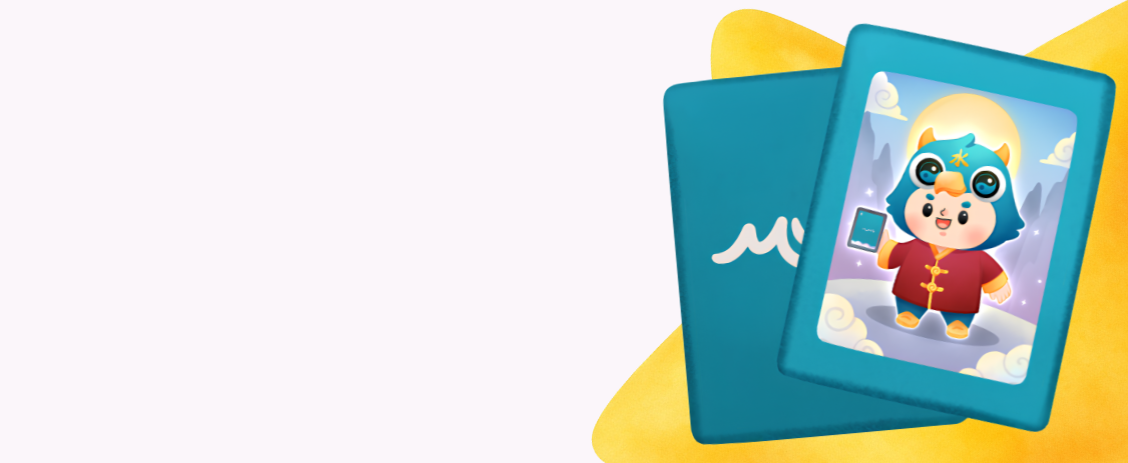
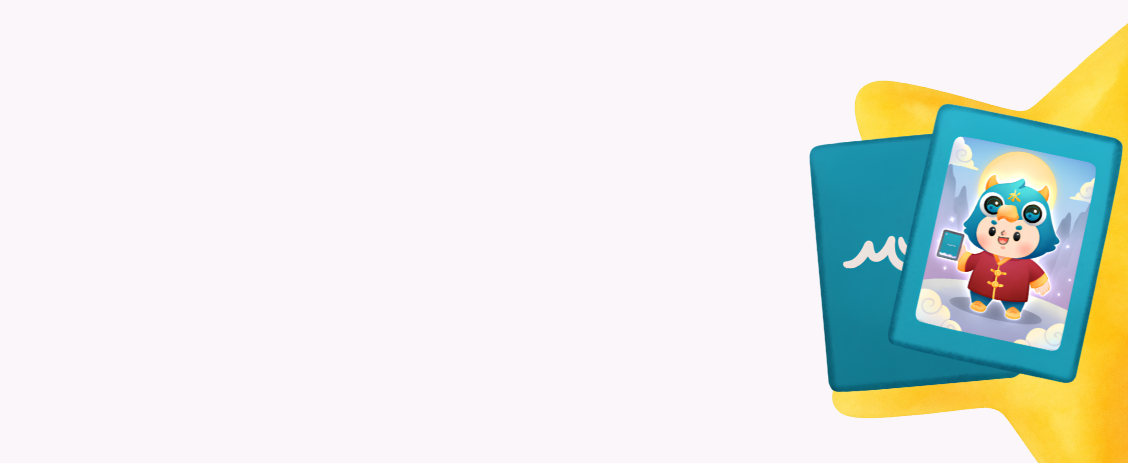
feat(v2-service): อาร์ตการ์ดใหม่ทั้งชุด + การ์ดเบอร์มือถือ + จัดหัวข้อ/คำอธิบายตาม Figma
- เปลี่ยนภาพการ์ดบริการทั้ง 11 ใบเป็นชุดใหม่ (Drive 2026-09-10) — มาสคอตย่อ/พื้นหลังมาในไฟล์
- แก้ 3 ไฟล์ที่อาร์ตสลับกัน (08 มานิเฟส/09 ปฏิทิน/11 ร้านค้า) ให้เนื้อหาตรงชื่อ
- เพิ่มการ์ดใหม่ #12 "ดูดวงเบอร์มือถือ" (12_เบอร์มือถือ.png) → coming-soon
- ServiceCard: คอลัมน์ข้อความ 47%→56%... 68% + ชื่อการ์ด 18→16px ให้ desc พอดี 2 บรรทัดตาม Figma
- AppHeader: เพิ่ม prop titleClassName (ไม่กระทบหน้าอื่น); service ใช้ 24→20 + nowrap ให้ "บริการทั้งหมด" 1 บรรทัด

diff --git a/features/v2-shell/components/AppHeader.tsx b/features/v2-shell/components/AppHeader.tsx
@@ -43,6 +43,9 @@ import { headerBadge, type MembershipLike } from '../header-badge'
 export type AppHeaderProps = {
   /** left: the page title (Heading/H1 24/32 navy — Figma) */
   title?: string
+  /** left: override the title's class list (size/wrap). Default = 24/32 bold navy, break-words. Service
+   *  passes a smaller nowrap variant so "บริการทั้งหมด" stays on one line beside the right cluster. */
+  titleClassName?: string
   /** left: optional second line under the title (Body 14/20 #464646 — Figma) */
   subtitle?: string
   /** left: a custom block that replaces title/subtitle entirely (home's Structure A greeting) */
@@ -166,6 +169,7 @@ export function HeaderTools({ membership, upgradeCta = true, tierLink = true, on
 
 export function AppHeader({
   title,
+  titleClassName = 'break-words text-[24px] font-bold leading-8 text-v3-navy',
   subtitle,
   left,
   backHref,
@@ -186,7 +190,7 @@ export function AppHeader({
       {left ?? (
         // Figma 375:11274 — title 24/32 bold navy, subtitle 14/20 medium #464646, 8px apart.
         <div className="flex min-w-0 flex-1 flex-col gap-2">
-          {title && <h1 data-testid="header-title" className="break-words text-[24px] font-bold leading-8 text-v3-navy">{title}</h1>}
+          {title && <h1 data-testid="header-title" className={titleClassName}>{title}</h1>}
           {subtitle && <p data-testid="header-subtitle" className="text-[14px] font-medium leading-5 text-v3-text-body">{subtitle}</p>}
         </div>
       )}

diff --git a/features/v2-service/components/ServiceCard.tsx b/features/v2-service/components/ServiceCard.tsx
@@ -38,8 +38,10 @@ export function ServiceCard({ data, eagerArt = false }: { data: ServiceCardData;
     >
       <ServiceCardArt src={data.image} eager={eagerArt} />
 
-      <div className="relative z-10 flex w-[47%] flex-col gap-2">
-        <h3 className="text-[18px] font-bold leading-6 text-v3-navy [word-break:break-word]">{data.title}</h3>
+      {/* copy column: กว้าง 56% (เดิม 47%) — อาร์ตชุดใหม่ (Drive 2026-09-10) มาสคอตชิดขว่ากว่าเดิม เว้นซ้าย
+          ~58-70% ว่าง จึงขยายคอลัมน์ข้อความให้ desc 2 บรรทัดพอดีตาม Figma (ก่อนหน้านี้ 47% บีบจนตัดเป็น 3-4 บรรทัด) */}
+      <div className="relative z-10 flex w-[68%] flex-col gap-2 pr-1">
+        <h3 className="text-[16px] font-bold leading-6 text-v3-navy [word-break:break-word]">{data.title}</h3>
         <div className="text-[14px] font-medium leading-5 text-v3-text-body [word-break:break-word]">
           {data.desc.map((line, i) => (
             <p key={i}>{line}</p>

diff --git a/features/v2-service/components/ServiceHeader.tsx b/features/v2-service/components/ServiceHeader.tsx
@@ -19,6 +19,8 @@ export function ServiceHeader({ membership }: { membership: MembershipLike }) {
     <AppHeader
       testId="service-header"
       title="บริการทั้งหมด"
+      // เล็กลงจาก 24→20 + ไม่ตัดบรรทัด: "บริการทั้งหมด" ยาวสุดในบรรดาหัวข้อ shared header ที่ 375 เคยตก 2 บรรทัด
+      titleClassName="whitespace-nowrap text-[20px] font-bold leading-7 text-v3-navy"
       membership={membership}
       // Figma 626:7624: px-24 py-16, items-start (px-2 on top of the column's px-4)
       className="items-start px-2 py-4"
